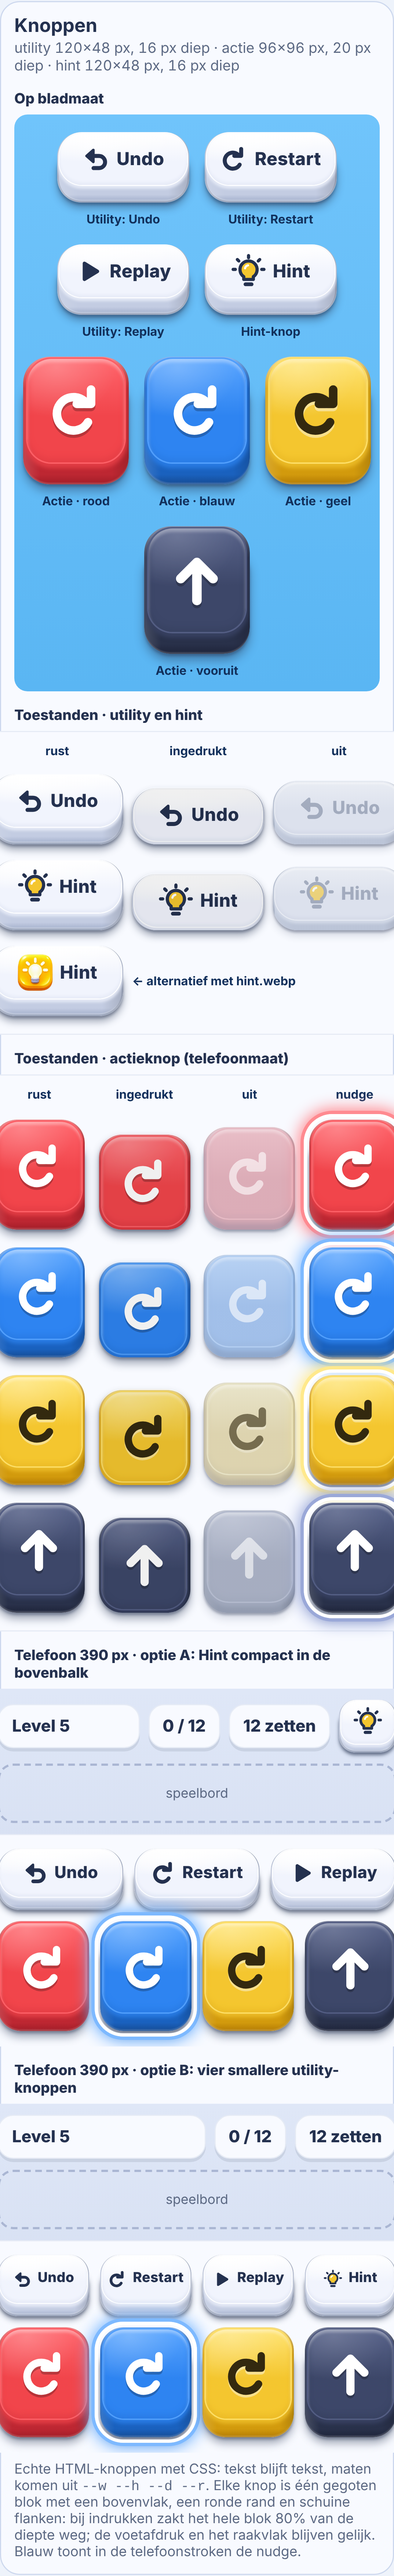
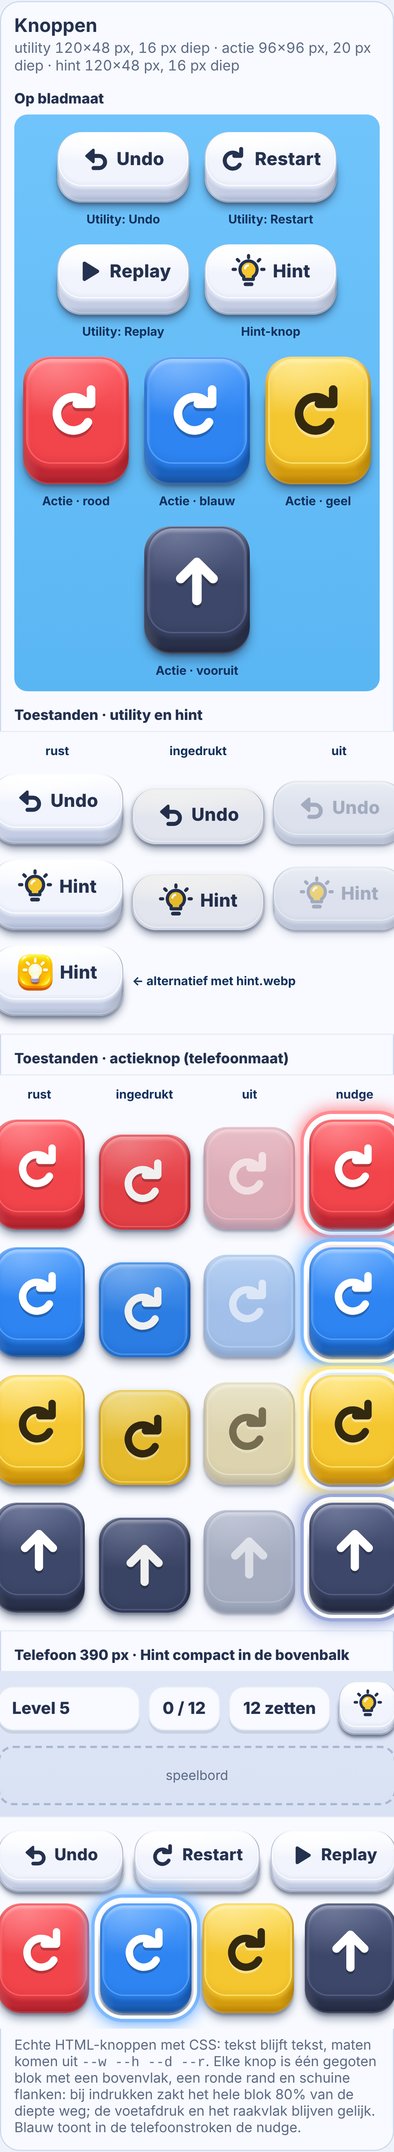
feat: settle the Turnflock hint button as a compact button in the top bar
The owner chose option A; the four-narrow-utility-buttons variant and
its sizes are removed from the parts sheet.

Task: turnflock parts sheet, buttons (design/reference/turnflock)

Claude-Session: https://claude.ai/code/session_01PBSmYrYC74TmpyfqbFxn34

diff --git a/src/parts/main.ts b/src/parts/main.ts
@@ -183,17 +183,12 @@ card('Onderplaat', 'underlay', buildUnderlay(6, 6, CONFIG.board.grid.gap, true),
   const COLORS = ['red', 'blue', 'yellow', 'forward'] as const;
   const COLOR_NAMES = { red: 'rood', blue: 'blauw', yellow: 'geel', forward: 'vooruit' } as const;
 
-  const small = '--fs:12.5px;--icon:17px';
-  const utilityRow = (narrow: boolean): string => {
-    const s = narrow ? p.utilityNarrow : p.utility;
-    const extra = narrow ? `;${small}` : '';
-    return `<div class="tf-line">${utility(s, undo, 'Undo', '', extra)}${utility(s, restart, 'Restart', '', extra)}${utility(s, replay, 'Replay', '', extra)}${narrow ? button('tf-hint', s, bulb + label('Hint'), 'Hint', '', extra) : ''}</div>`;
-  };
+  const utilityRow = `<div class="tf-line">${utility(p.utility, undo, 'Undo')}${utility(p.utility, restart, 'Restart')}${utility(p.utility, replay, 'Replay')}</div>`;
   const actionRow = `<div class="tf-line">${COLORS.map((c) => action(p.action, c, c === 'blue' ? 'nudge' : '')).join('')}</div>`;
-  const phone = (id: string, withHintInBar: boolean): string => `<div class="tf-phone" id="${id}">
-      <div class="tf-bar"><span class="tf-pill grow">Level 5</span><span class="tf-pill">0 / 12</span><span class="tf-pill">12 zetten</span>${withHintInBar ? hint(p.hintCompact, '', 'tf-hint compact') : ''}</div>
+  const phone = `<div class="tf-phone" id="buttons-phone">
+      <div class="tf-bar"><span class="tf-pill grow">Level 5</span><span class="tf-pill">0 / 12</span><span class="tf-pill">12 zetten</span>${hint(p.hintCompact, '', 'tf-hint compact')}</div>
       <div class="tf-board">speelbord</div>
-      <div class="tf-controls">${utilityRow(!withHintInBar)}${actionRow}</div>
+      <div class="tf-controls">${utilityRow}${actionRow}</div>
     </div>`;
 
   const el = document.createElement('section');
@@ -220,10 +215,8 @@ card('Onderplaat', 'underlay', buildUnderlay(6, 6, CONFIG.board.grid.gap, true),
     ${ACTION_STATES.map(([, n]) => `<span>${n}</span>`).join('')}
     ${COLORS.map((c) => ACTION_STATES.map(([s]) => action(p.action, c, s)).join('')).join('')}
   </div>
-  <h3 class="btn-title">Telefoon ${p.stripWidth} px · optie A: Hint compact in de bovenbalk</h3>
-  ${phone('buttons-phone-a', true)}
-  <h3 class="btn-title">Telefoon ${p.stripWidth} px · optie B: vier smallere utility-knoppen</h3>
-  ${phone('buttons-phone-b', false)}
+  <h3 class="btn-title">Telefoon ${p.stripWidth} px · Hint compact in de bovenbalk</h3>
+  ${phone}
   <p class="note">Echte HTML-knoppen met CSS: tekst blijft tekst, maten komen uit <code>--w --h --d --r</code>. Elke knop is één gegoten blok met een bovenvlak, een ronde rand en schuine flanken: bij indrukken zakt het hele blok ${Math.round(b.pressFraction * 100)}% van de diepte weg; de voetafdruk en het raakvlak blijven gelijk. Blauw toont in de telefoonstroken de nudge.</p>`;
   document.getElementById('sheet')!.appendChild(el);
 }
